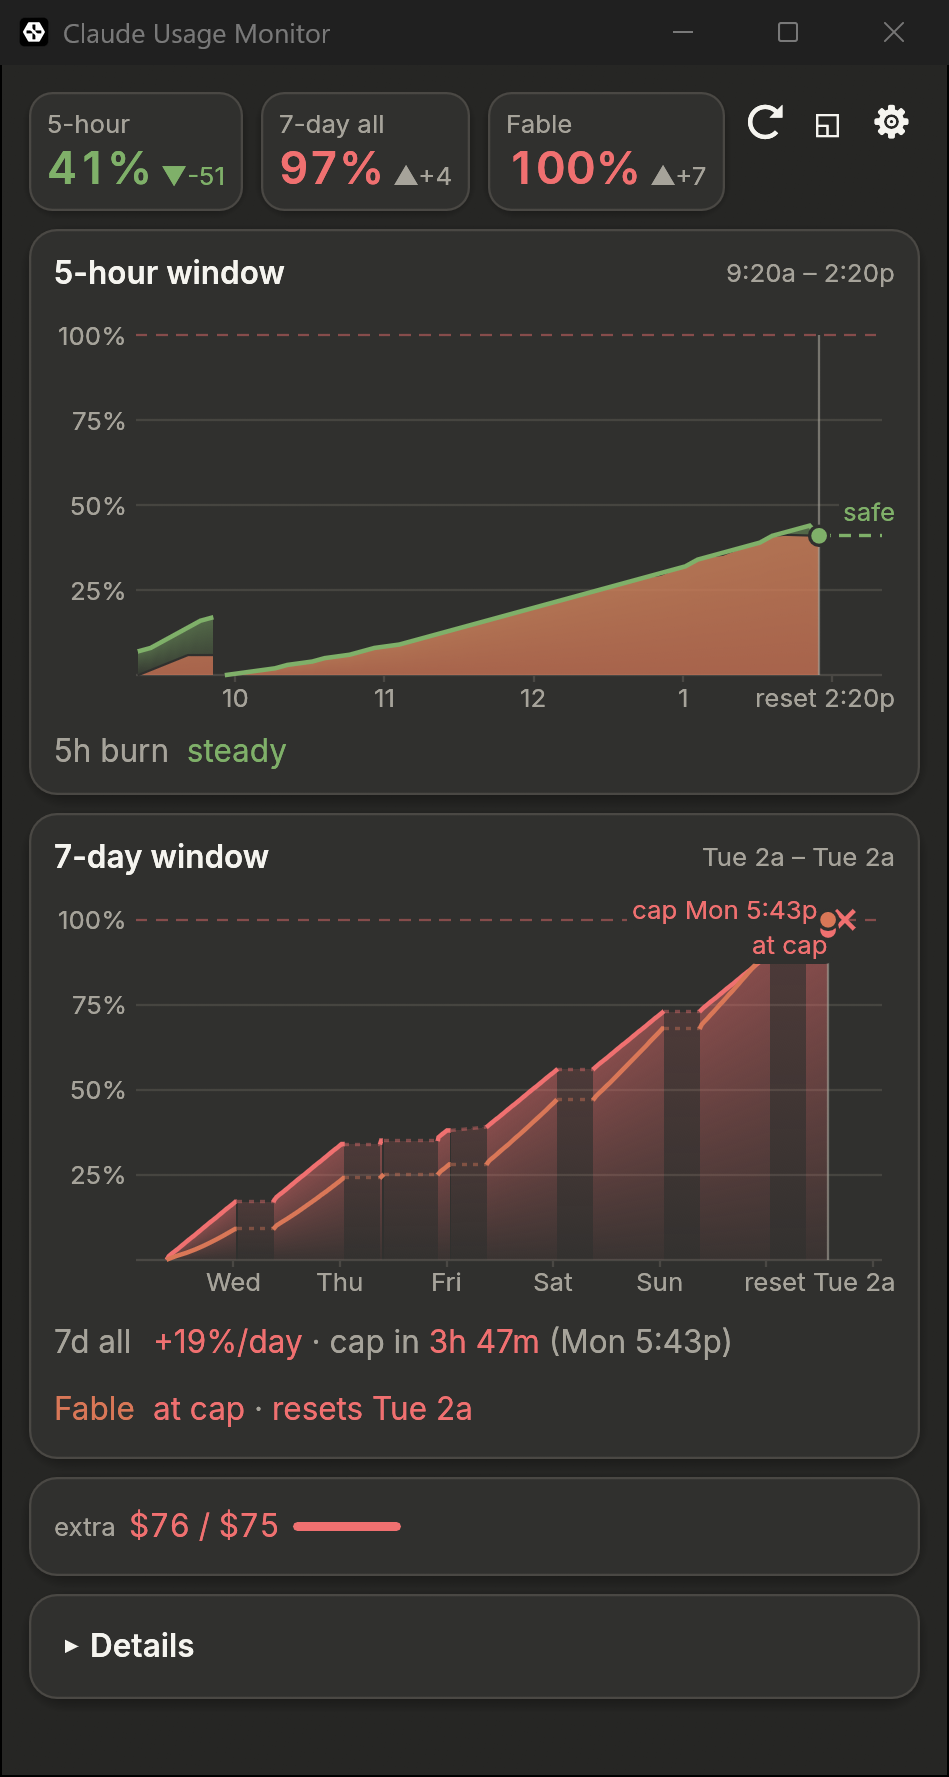
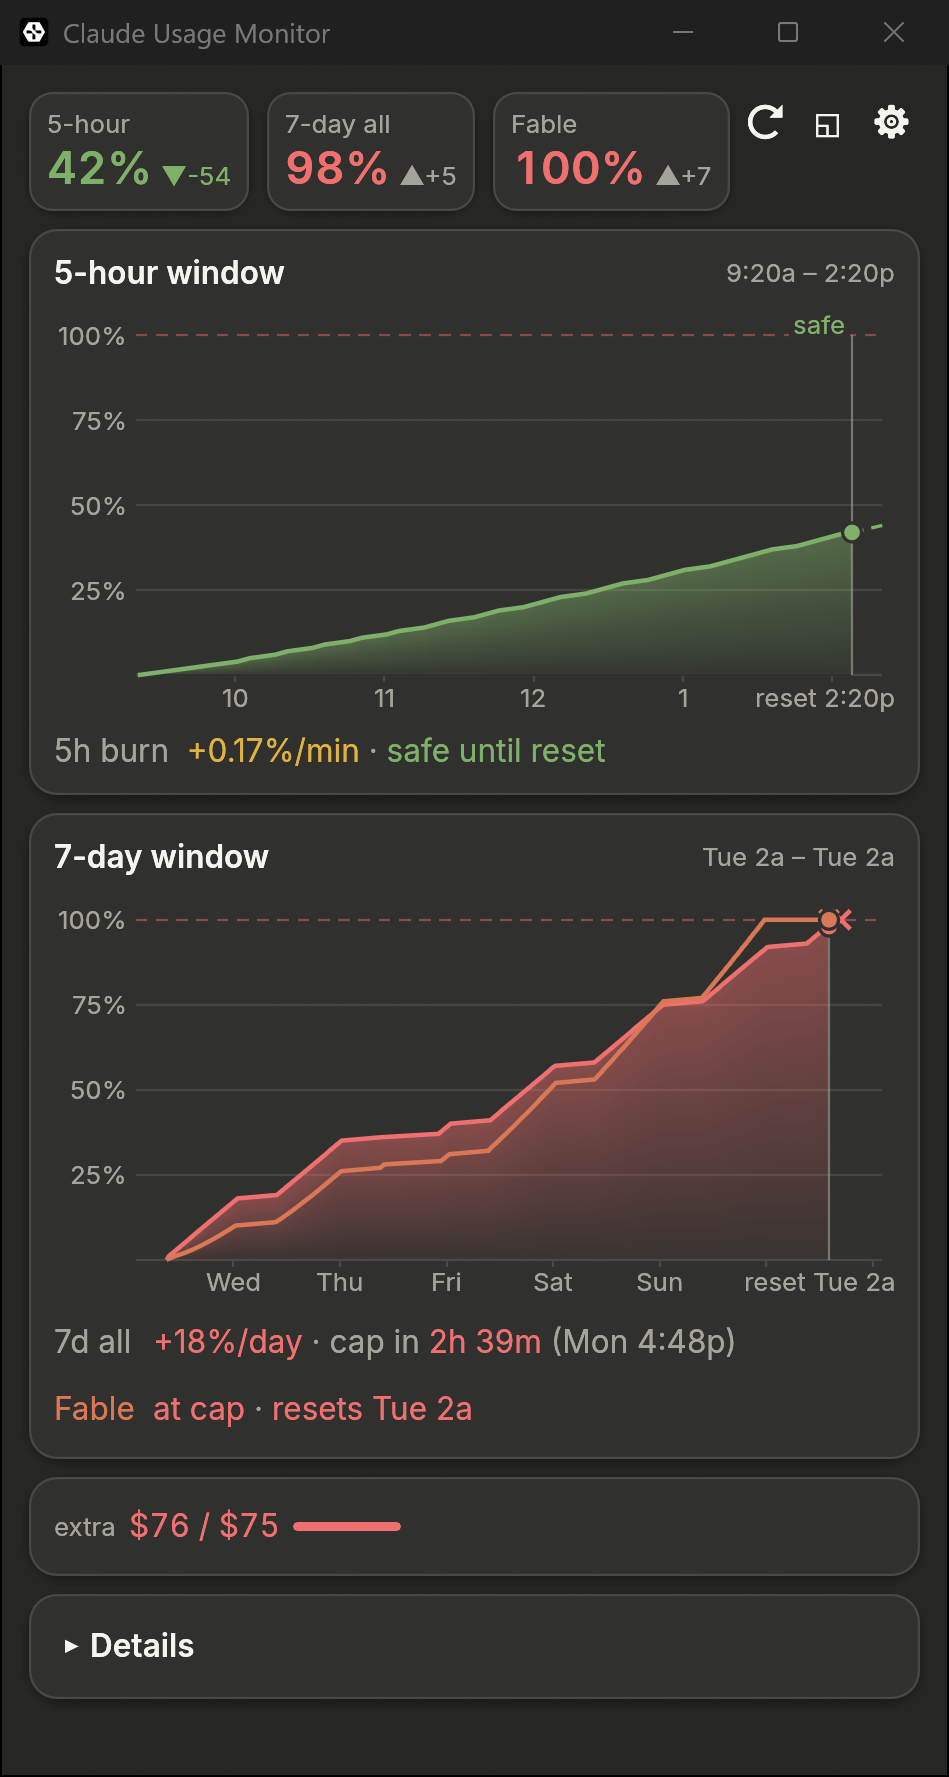
docs: README and spec notes for the r3 fixes; screenshots end at the live poll
The screenshots now come from a two-phase run: the test instance's first
poll (in its throwaway data dir) gives the live values, and the synthetic
week ends at them, so chips, dots and lines agree (7d all 98% capping in
under 3 h, Fable at 100%: the corner stays clear, no night bands).

Claude-Session: https://claude.ai/code/session_01Gygvccd6V2Ecn2BS3QuMpZ

diff --git a/docs/superpowers/specs/2026-10-11-gui-redesign-design.md b/docs/superpowers/specs/2026-10-11-gui-redesign-design.md
@@ -155,7 +155,7 @@ Where the branch differs from the design text above, and why. Sources: the spike
 - The "claude.ai usage · plan" title and the 📌 button are gone from the header. Always-on-top lives in Settings only; the plan label moved to the Details footer line ("Max plan · last polled Ns ago").
 - Chip % is floored (99.6 never reads 100). The pace delta is muted below 10 points; ahead is amber, behind green. Chips wrap to a second row when they don't fit (the Fable chip wraps at 360 pt).
 - **The 7-day chart uses a fixed 0–100% scale.** A scale relative to the week's maximum made a 47% day look near the cap. (It began as a footer sparkline; after user feedback it became a full titled "Last 7 days" card on the timeline's shared axis, with no-data days as dashed stubs, and the cards sit side by side from a 640 pt column; the column cap went from 720 to 1000 pt and the default window from 420x460 to 420x680.)
-- **The 7-day chart became a second timeline** (user: weekly limits often run out before the 5-hour one). `ui::timeline` paints a `Chart` (window, points with a main value and an overlay, per-chart gap threshold, ticks, end label, overlay mode, one projection `Line` per meter, time style); the 5-hour chart is `five_hour_chart`, the weekly one `week::week_chart`: 7-day-all area, Fable's own 7-day meter as a clay line, local-midnight weekday ticks, 60 min gaps, and projections built from the weekly outlook (`week::weekly_line`). The weekly window's samples come from the same history read, thinned to the last sample per 5 minutes plus the last hour. The daily bars, the per-day rollups and their helpers are gone. Default window 420x760; side by side the cards split 50/50. Both timelines draw lines and areas through change points (`timeline::through_change_points`: the first sample of each new whole-percent value, linear between, flat after the last), so the weekly meter isn't a staircase; the 5-hour Fable share is smoothed the same way and clamped to the drawn line at every sample. Hover and snapping keep the raw readings.
+- **The 7-day chart became a second timeline** (user: weekly limits often run out before the 5-hour one). `ui::timeline` paints a `Chart` (window, points with a main value and an overlay, per-chart gap threshold, ticks, end label, overlay mode, one projection `Line` per meter, time style); the 5-hour chart is `five_hour_chart`, the weekly one `week::week_chart`: 7-day-all area, Fable's own 7-day meter as a clay line, local-midnight weekday ticks, 60 min gaps, and projections built from the weekly outlook (`week::weekly_line`). The weekly window's samples come from the same history read, thinned to the last sample per 5 minutes plus the last hour. The daily bars, the per-day rollups and their helpers are gone. Default window 420x760; side by side the cards split 50/50. Both timelines draw lines and areas through change points (`timeline::through_change_points`: the first sample of each new whole-percent value, linear between, flat after the last), so the weekly meter isn't a staircase; the 5-hour Fable share is smoothed the same way and clamped to the drawn line at every sample. Hover and snapping keep the raw readings. Drawn values stay within a point of their reading, so multi-point jumps don't become invented ramps; a time gap with the same value at both ends is known flat and stays solid (bridges only where the value changed, at 0.7 fill on the week); "at cap" is a ✕ on the 100% line, and "cap …" text appears only when the projection is long enough to hold it.
 - **Every chart has a title** (`theme::chart_title`: semibold title, muted right-aligned subtitle). The 5-hour burn moved into the timeline card as a labelled "5h burn" row; the 7-day card has one projection row per weekly limit ("7d all", and "Fable" for Fable's own 7-day limit, which on real data caps first): a 24 h rate anchored at the latest sample at or before the window start (clipped to the weekly window, never spread over less than 6 h), projected to that limit's reset; "at cap" in red at 100%. Side-by-side cards are levelled to the taller one's content height from the frame before (egui's `set_min_height` reserves from the cursor, so it is set before the content).
 - **Burn copy**: "+0.21%/min · cap in 1h 48m" when the cap lands before the reset, **"+0.34%/min · safe until reset"** when it lands after (`Eta::Minutes` carries a `lands_after_reset` flag from the shared helper), and the rate alone when the reset is unknown.
 - **Burner names come from the session JSONL `cwd`** (the last path component of the latest timestamped entry), with `prettify_project` only as the fallback: the folder-name encoding is ambiguous (`__tomos` → `tomos-…`). Long names are cut at the front so the tail stays.

diff --git a/README.md b/README.md
@@ -21,9 +21,9 @@ The window opens at 420x760 (minimum 360x320) in a warm dark theme. From top to 
 - **7-day window** (a second timeline, titled with the weekly window's span, "Tue 2a – Tue 2a"): the current weekly window from its start to the weekly reset, drawn like the 5-hour one, because the weekly limits often run out first.
   - The 7-day utilization (all models) as a filled area in its state color, and Fable's own 7-day limit as a clay line (hidden until Fable shows usage or a reset time).
   - A tick at each local midnight, labelled with the weekday, and "reset Tue 2a" at the end. With no known reset it shows the last 7 days up to now.
-  - A "now" marker with a dot per limit, and a dashed projection per limit from its weekly rate (below): to 100% with a ✕ and "cap Mon 10:45a" (7-day all in its state color, Fable in clay) when it caps before the reset, else to the projected % at the reset with "safe". A limit already at 100% shows "at cap". The labels keep clear of each other and of the ✕ marks.
-  - Gaps of more than an hour (the app was closed overnight) are bridged with a faint dotted line.
-  - Both timelines draw their lines through the moments each whole percent was first seen (the API reports whole percents), straight in between and flat after the latest one, instead of as steps. Hover shows the real readings. Nothing extra is stored for this.
+  - A "now" marker with a dot per limit, and a dashed projection per limit from its weekly rate (below): to 100% with a ✕ and "cap Mon 10:45a" (7-day all in its state color, Fable in clay) when it caps before the reset, else to the projected % at the reset with "safe". When the cap is too close to now for its label, only the ✕ shows; a limit already at 100% gets a ✕ on the 100% line at now. The rows under the chart give the words. The labels keep clear of each other, the ✕ marks and the dots.
+  - Gaps of more than an hour (the app was closed) stay solid when the value is the same at both ends (nothing was used meanwhile), and are bridged with a faint dotted line when it changed.
+  - Both timelines draw their lines through the moments each whole percent was first seen (the API reports whole percents), straight in between (but never more than a point away from the reading, so a jump after a quiet stretch isn't spread across it) and flat after the latest one, instead of as steps. Hover shows the real readings. Nothing extra is stored for this.
   - Hover for "Sat 3:12p · 7d all 41% · Fable 52%"; past "now", the projected values.
   - **Weekly projections** under the chart, one row per weekly limit: **7d all**, and **Fable** (Fable's own 7-day limit, once it shows usage or a reset time; it can cap before 7-day all). Each gives the rate per day over the last 24 hours, measured from the latest sample at or before then (when that sample is older because the app was closed, the rise is spread over the whole gap, "over last 3d (app was closed)"; if the samples since then span 6 hours or more and rise faster, that faster rate is shown instead), only since the weekly reset if that is later, and projected to that limit's reset. If that crosses 100% first it warns "cap in 16h 00m (Mon 3p)" in orange (red under a day); otherwise it reads "≈78% at reset · safe until Thu 9a" in green; at the limit it reads "at cap · resets Mon 11p" in red. With too little history it says "need more history"; with no known reset, the rate alone. A short stretch of samples is never spread over less than 6 hours. Hover a row for the full text and what the rate was measured over ("over last 24h", "over last 3h (app was closed)"). A narrow row drops the cap time or the % at reset (the tooltip keeps them). "Cap in" counts down from the last good poll to now; the rows are muted when that poll is older than two poll intervals.
 - When the window is wide (a content column of 640 pt or more; the column grows to 1000 pt), the two timelines sit side by side, half each, and both cards end level. Narrower, they stack.
